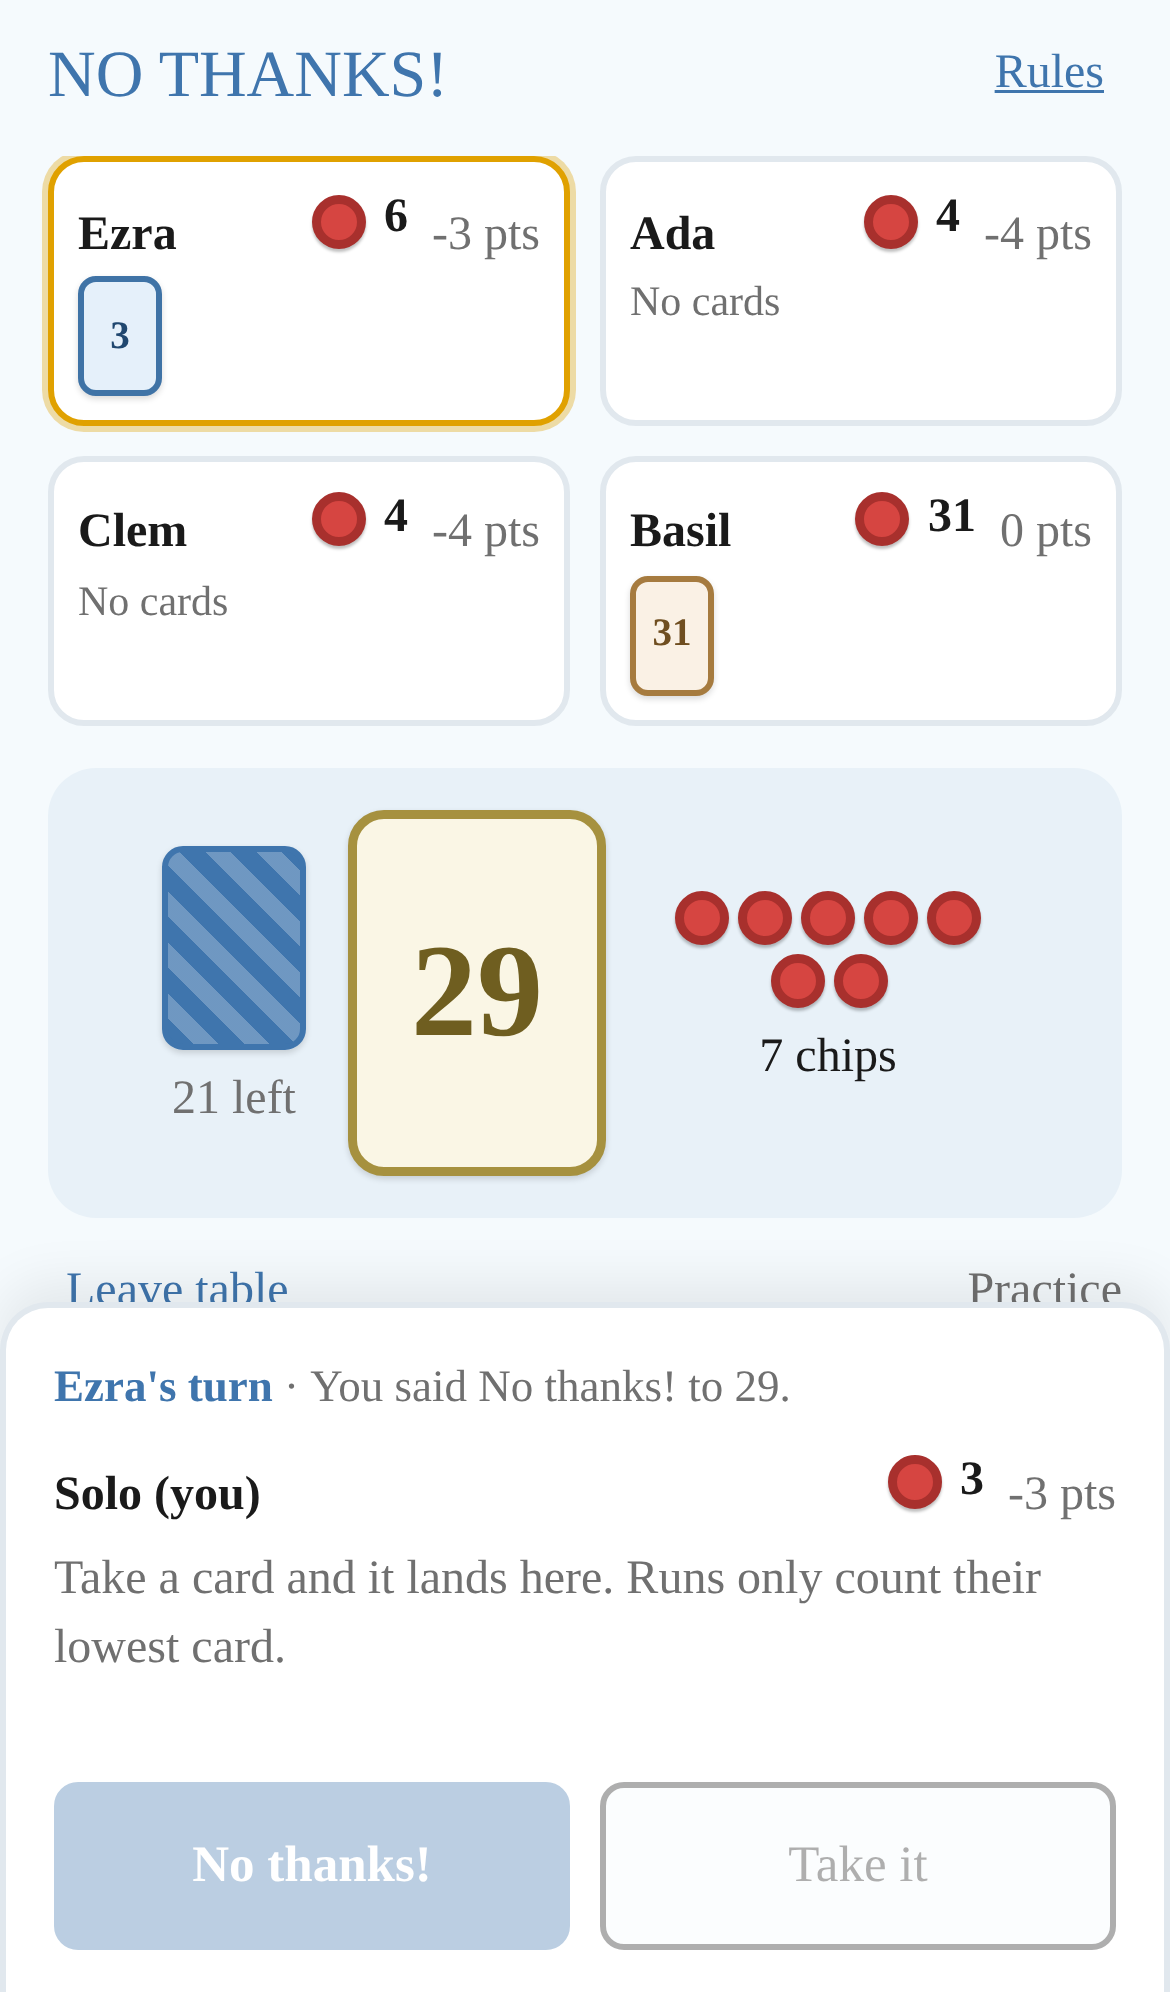
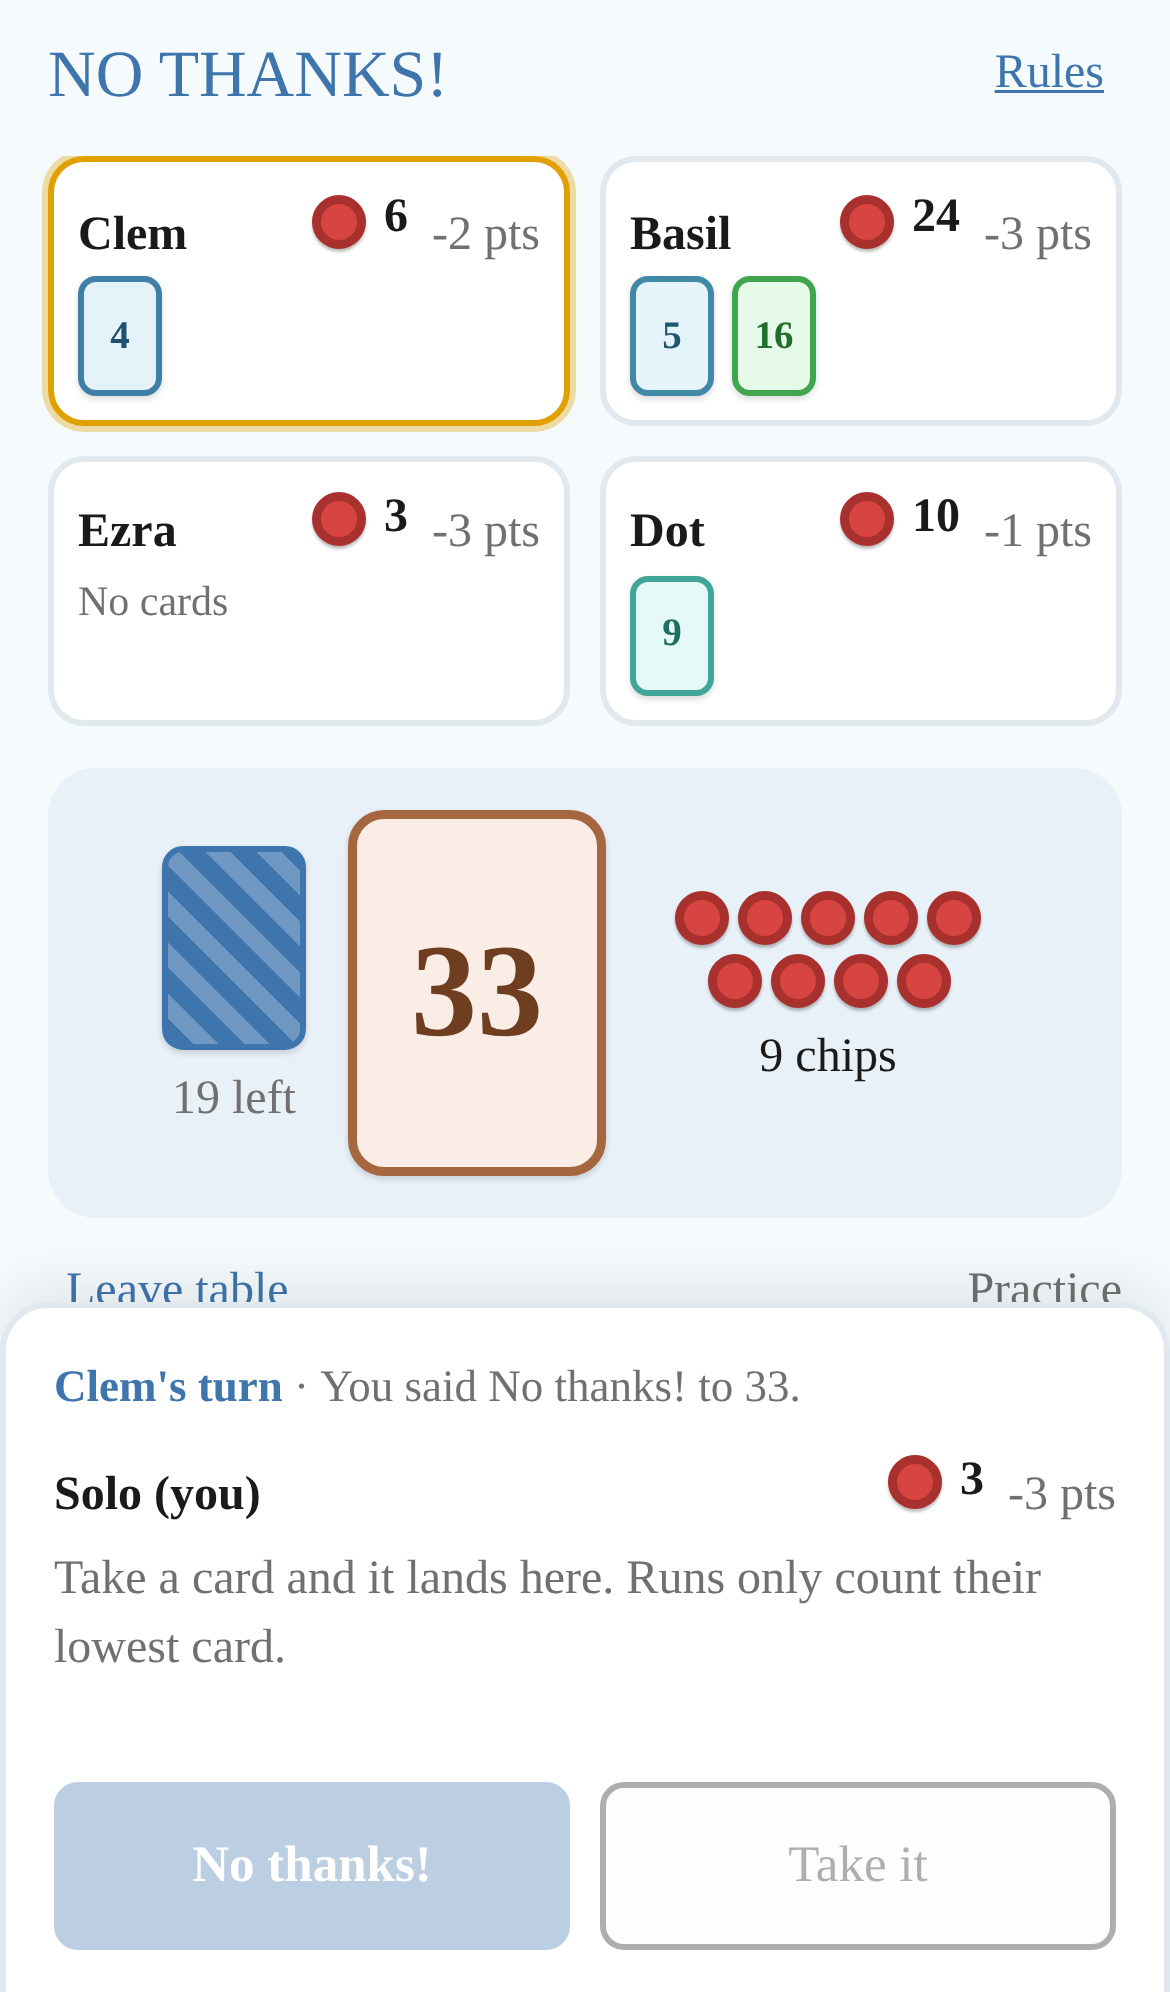
No Thanks!: stop double-tap zoom on iPhone
touch-action isn't inherited, so it now sits on every element, and a second quick tap on text or empty space is
swallowed (iOS still zooms there otherwise). Buttons keep fast taps.

Claude-Session: https://claude.ai/code/session_012Ki9KLHYv5rcNv1o4HfZib

diff --git a/public/no_thanks/index.html b/public/no_thanks/index.html
@@ -17,6 +17,14 @@
   // iOS Safari ignores user-scalable=no for pinches, so cancel its gesture events
   ['gesturestart','gesturechange','gestureend'].forEach(function(t){ document.addEventListener(t, function(e){ e.preventDefault(); }, { passive:false }); });
   document.addEventListener('touchmove', function(e){ if (e.touches.length > 1) e.preventDefault(); }, { passive:false });
+  // ...and it still zooms on a double tap of plain text or empty space, so swallow a second quick tap there
+  // (buttons and fields keep theirs: touch-action below already stops them zooming, and fast taps must still click)
+  var lastTap = 0;
+  document.addEventListener('touchend', function(e){
+    var now = Date.now(), quick = now - lastTap < 350; lastTap = now;
+    if (quick && e.touches.length === 0 && !e.target.closest('button, a, input, select, textarea, label')) e.preventDefault();
+  }, { passive:false });
+  document.addEventListener('dblclick', function(e){ e.preventDefault(); }, { passive:false });
   if ('serviceWorker' in navigator && location.protocol === 'https:') addEventListener('load', function(){ navigator.serviceWorker.register('sw.js'); });
 </script>
 <link rel="preconnect" href="https://fonts.googleapis.com">
@@ -33,7 +41,7 @@
   :root:not([data-theme="light"]){ --bg:#0f1720; --card:#16202b; --ink:#e8edf2; --blue:#7fb0e3; --border:#26323f; --field:#0f1720; --grey:#9aa4ae; --outline:#c9d2db; --red:#ef6b66; --green:#4cc08b; --gold:#f2bb2e; --chip:#e0524d; --chip-edge:#a8302d; --felt:#121c26; }
 }
 :root[data-theme="dark"]{ --bg:#0f1720; --card:#16202b; --ink:#e8edf2; --blue:#7fb0e3; --border:#26323f; --field:#0f1720; --grey:#9aa4ae; --outline:#c9d2db; --red:#ef6b66; --green:#4cc08b; --gold:#f2bb2e; --chip:#e0524d; --chip-edge:#a8302d; --felt:#121c26; }
-*,*::before,*::after{box-sizing:inherit}
+*,*::before,*::after{box-sizing:inherit;touch-action:manipulation}   /* not inherited, so on every element */
 html,body{margin:0;min-height:100%;overscroll-behavior:none}   /* no pull-to-refresh or rubber-band behind the app */
 body{
   background:var(--bg); color:var(--ink); font-family:"Roboto Slab",Rockwell,Georgia,serif; font-size:16px; line-height:1.4;
